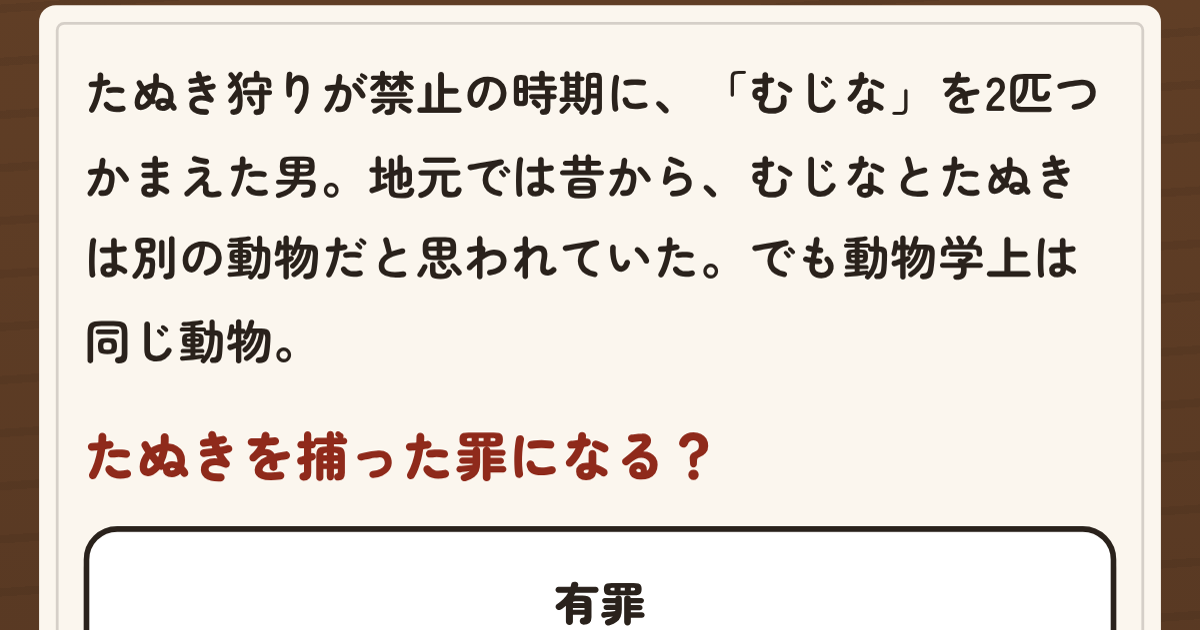
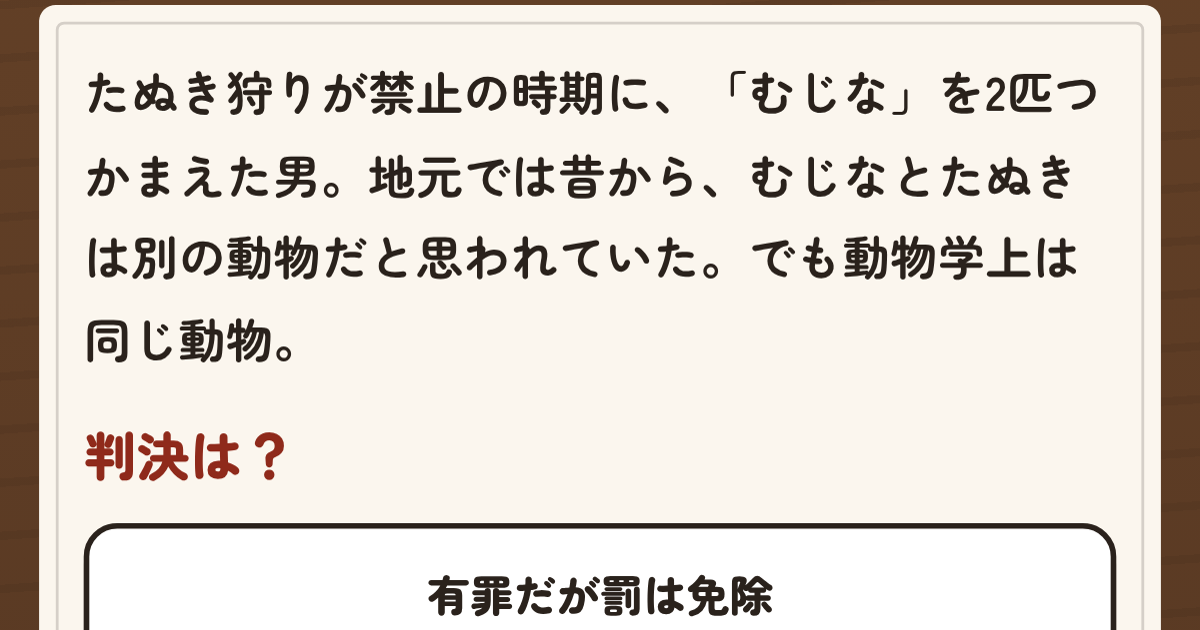
hanketsu: 3〜4択にして実際の刑（懲役・執行猶予・罰金・賠償額）も選べるように、4件追加
Claude-Session: https://claude.ai/code/session_01E5BBq8eCh2A179HDN9CSHu

diff --git a/hanketsu/index.html b/hanketsu/index.html
@@ -52,8 +52,9 @@ body{font-family:var(--body);color:var(--ink);overflow:hidden;-webkit-tap-highli
 #story{margin:0;font-size:clamp(14.5px,calc(2.3vh + 2.4px),17px);font-weight:700;line-height:1.75;text-align:left}
 #ask{margin:2px 0 0;font-size:clamp(16px,calc(2.3vh + 4px),19px);font-weight:900;line-height:1.45;text-align:left;color:var(--red-d)}
 #opts[hidden],#ask[hidden]{display:none}
-#opts{display:flex;flex-direction:column;gap:10px;margin-top:2px}
-.opt{border:2px solid var(--ink);border-radius:12px;background:#fff;color:var(--ink);font:900 16.5px var(--body);padding:clamp(10px,1.8vh,14px) 12px;text-align:center;cursor:pointer;box-shadow:0 3px 0 #cfc6ba;line-height:1.35}
+#opts{display:grid;grid-template-columns:1fr;gap:9px;margin-top:2px}
+#opts.two{grid-template-columns:1fr 1fr}
+.opt{border:2px solid var(--ink);border-radius:12px;background:#fff;color:var(--ink);font:900 15.5px var(--body);padding:clamp(9px,1.6vh,13px) 10px;text-align:center;cursor:pointer;box-shadow:0 3px 0 #cfc6ba;line-height:1.35}
 .opt:active{transform:translateY(2px);box-shadow:0 1px 0 #cfc6ba}
 .opt:disabled{cursor:default}
 .opt.chosen{background:#f1ece2}
@@ -153,88 +154,112 @@ const N_Q=10;
 const CASES=[
 {id:'denki',name:'電気窃盗事件',era:'明治36年',
  story:'電気会社と契約せず、電線からこっそり電気を引いて使った男。当時の法律で「窃盗」は、他人の「物」を盗む罪。',
- ask:'形のない電気は「物」？ 窃盗になる？',opts:['窃盗で有罪','物じゃないから無罪'],a:0,
+ ask:'形のない電気。判決は？',opts:['窃盗で有罪','「物」じゃないから無罪','窃盗ではなく詐欺で有罪'],a:0,
  verdict:'有罪（窃盗罪）',
  why:'電気は形がなくても、管理したり持ち運んだりできるので「物」にあたる、とされた。今は刑法に「電気は財物とみなす」と書いてある。',
  src:'大審院 明治36年5月21日 判決'},
 {id:'tanuki',name:'たぬき・むじな事件',era:'大正14年',
  story:'たぬき狩りが禁止の時期に、「むじな」を2匹つかまえた男。地元では昔から、むじなとたぬきは別の動物だと思われていた。でも動物学上は同じ動物。',
- ask:'たぬきを捕った罪になる？',opts:['有罪','無罪'],a:1,
+ ask:'判決は？',opts:['罰金で有罪','懲役で有罪','有罪だが罰は免除','無罪'],a:3,
  verdict:'無罪',
  why:'当時は、たぬきとむじなを別の動物と考える人が多かった。男に「たぬきを捕る」つもりはなかったので罪にならない、とされた。',
  src:'大審院 大正14年6月9日 判決'},
 {id:'musasabi',name:'むささび・もま事件',era:'大正13年',
  story:'禁猟の「むささび」をつかまえた男。男は、地元で「もま」と呼ぶ動物を捕っただけで、もまとむささびが同じ動物だとは知らなかった。',
- ask:'むささびを捕った罪になる？',opts:['有罪','無罪'],a:0,
+ ask:'判決は？',opts:['有罪','無罪（知らなかったから）','無罪（地方の呼び名だから）'],a:0,
  verdict:'有罪',
  why:'「もま」はむささびの地方での呼び名で、同じ動物。もまだと分かって捕ったなら、むささびを捕ったのと同じ。知らなかったでは済まない、とされた。',
  src:'大審院 大正13年4月25日 判決'},
 {id:'ichirin',name:'一厘事件',era:'明治43年',
  story:'育てた葉たばこは全部国に納める決まりだった時代。農家が、そのうち約2グラム（値段は1厘＝1円の1000分の1）を手でもんで自分で吸った。二審は罰金10円。',
- ask:'大審院の判決は？',opts:['有罪','無罪'],a:1,
+ ask:'大審院の判決は？',opts:['罰金10円（二審どおり）','罰金1厘（吸った分だけ）','懲役1か月','無罪'],a:3,
  verdict:'無罪',
  why:'ごくわずかで、特に悪い事情もない違反は、罰するほどの害がない、とされた。二審の罰金10円は、被害の1万倍だった。',
  src:'大審院 明治43年10月11日 判決'},
 {id:'unazuki',name:'宇奈月温泉事件',era:'昭和10年',
  story:'温泉に湯を引く管が、他人の小さな土地を許可なく通っていた。その土地を買った人が「管をどけろ。嫌ならこの土地と周りの土地を高値で買い取れ」と温泉側に迫った。',
- ask:'「管をどけろ」は通る？',opts:['通る','通らない'],a:1,
- verdict:'通らない',
+ ask:'判決は？',opts:['管をどけろ','温泉側が土地を買い取れ','訴えを退ける'],a:2,
+ verdict:'訴えを退ける',
  why:'管をどけるのはとても大変。それにつけこんで土地を買い、不当な値段で買い取りを迫るのは「権利の濫用」で許されない、とされた。',
  src:'大審院 昭和10年10月5日 判決'},
 {id:'shingen',name:'信玄公旗掛松事件',era:'大正8年',
  story:'武田信玄が旗を掛けたと伝わる松。線路から1.8mもない所に立っていて、蒸気機関車の煙で枯れてしまった。持ち主は鉄道側に賠償を求めた。',
- ask:'汽車を走らせるのは正当な権利。賠償は？',opts:['払わなくていい','払うべき'],a:1,
- verdict:'鉄道側は賠償すべき',
+ ask:'汽車を走らせるのは正当な権利。判決は？',opts:['賠償しなくていい','鉄道側が賠償する','賠償＋線路を移す'],a:1,
+ verdict:'鉄道側が賠償する',
  why:'汽車の煙は、ふつうは沿線の人が我慢するもの。でも線路のすぐそばで、煙を防ぐ方法もあったのに何もしなかったのは、我慢の限度を超える、とされた。',
  src:'大審院 大正8年3月3日 判決'},
 {id:'golf',name:'ロストボール事件',era:'昭和62年',
  story:'ゴルフ場の池の底に沈んでいるボール。客が打ち込んで、あきらめて置いていったもの。男たちは池にもぐって、それを拾って持ち去った。',
- ask:'置いていかれたボール。罪になる？',opts:['窃盗で有罪','捨てた物だから無罪'],a:0,
- verdict:'有罪（窃盗罪）',
+ ask:'何の罪になる？',opts:['窃盗罪','落とし物を自分のものにする罪（軽い）','捨てた物だから無罪'],a:0,
+ verdict:'窃盗罪',
  why:'ボールはゴルフ場のものになっていて、ゴルフ場が管理していた。ゴルフ場もいずれ回収して使うつもりだった、とされた。',
  src:'最高裁 昭和62年4月10日 決定'},
 {id:'pochette',name:'置き忘れポシェット事件',era:'平成16年',
  story:'公園のベンチにポシェットを置き忘れて、歩いていった人。まだ27mほどしか離れていないうちに、別の人がそのポシェットを持ち去った。',
- ask:'何の罪になる？',opts:['窃盗罪','落とし物を自分のものにする罪（もっと軽い）'],a:0,
+ ask:'何の罪になる？',opts:['窃盗罪','落とし物を自分のものにする罪（軽い）','拾っただけなので無罪'],a:0,
  verdict:'窃盗罪',
  why:'持ち主はまだ27mしか離れていない。置き忘れに気づいていなくても、ポシェットはまだ持ち主のものとして管理されていた、とされた。',
  src:'最高裁 平成16年8月25日 決定'},
 {id:'furikomi',name:'誤振込事件',era:'平成15年',
  story:'自分の口座に、知らない人から間違ってお金が振り込まれた。気づいたけれど黙って、銀行の窓口で引き出した。',
- ask:'自分の口座のお金。罪になる？',opts:['詐欺罪','罪にならない'],a:0,
- verdict:'有罪（詐欺罪）',
+ ask:'何の罪になる？',opts:['詐欺罪','横領罪','自分の口座だから無罪'],a:0,
+ verdict:'詐欺罪',
  why:'間違いの振込だと知ったら、銀行に伝える義務がある。黙って払い戻しを頼むのは、窓口の人をだますことになる、とされた。',
  src:'最高裁 平成15年3月12日 決定'},
 {id:'pachislo',name:'パチスロ体感器事件',era:'平成19年',
  story:'メダルを不正に取るための機械（体感器）を体につけて、パチスロを打った男。出たメダルは約1500枚。全部が機械のおかげで出たとは限らない。',
- ask:'窃盗になるのは？',opts:['機械で取れた分だけ','出たメダル全部'],a:1,
+ ask:'窃盗になるのは？',opts:['機械で取れた分だけ','出たメダル全部','どのメダルも窃盗ではない'],a:1,
  verdict:'出たメダル全部',
  why:'不正のための機械をつけて打つこと自体が、店の許さない遊び方。機械のおかげかどうかに関係なく、全部が窃盗、とされた。',
  src:'最高裁 平成19年4月13日 決定'},
 {id:'tattoo',name:'タトゥー事件',era:'令和2年',
- story:'医師免許のない彫り師が、店でお客さんにタトゥーを入れた。針で皮膚に色を入れるのは、医師しかしてはいけない「医業」なのか。一審は有罪。',
- ask:'最高裁の判断は？',opts:['医師法違反で有罪','無罪'],a:1,
+ story:'医師免許のない彫り師が、店でお客さんにタトゥーを入れた。針で皮膚に色を入れるのは、医師しかしてはいけない「医業」なのか。一審は罰金15万円。',
+ ask:'最高裁の判断は？',opts:['罰金15万円（一審どおり）','罰金50万円','懲役1年・執行猶予3年','無罪'],a:3,
  verdict:'無罪',
- why:'タトゥーは医療ではなく、美術的な面もある社会の風俗。医師だけができる「医行為」にはあたらない、とされた。',
+ why:'タトゥーは医療ではなく、美術的な面もある社会の風俗。医師だけができる「医行為」にはあたらない、とされた（二審で逆転無罪、最高裁で確定）。',
  src:'最高裁 令和2年9月16日 決定'},
 {id:'mining',name:'Webマイニング事件',era:'令和4年',
  story:'自分のWebサイトに、見に来た人のパソコンで仮想通貨の計算（マイニング）をさせるプログラムを、断りなく置いた。二審は「ウイルス罪」で罰金10万円。',
- ask:'最高裁の判断は？',opts:['有罪','無罪'],a:1,
+ ask:'最高裁の判断は？',opts:['罰金10万円（二審どおり）','罰金50万円','懲役1年・執行猶予3年','無罪'],a:3,
  verdict:'無罪',
  why:'断りなしではあるが、パソコンへの影響は広告と大きく変わらない。社会的に許されないとまでは言えない、とされた。',
  src:'最高裁 令和4年1月20日 判決'},
 {id:'p2p',name:'ファイル共有ソフト事件',era:'平成23年',
  story:'ファイル共有ソフトを作って、ネットで公開した開発者。それを使って他人の作品を違法に流す人が出て、開発者は「著作権侵害の手助け」で起訴された。一審は罰金150万円。',
- ask:'最高裁の判断は？',opts:['有罪','無罪'],a:1,
+ ask:'最高裁の判断は？',opts:['罰金150万円（一審どおり）','懲役1年・執行猶予3年','懲役3年（実刑）','無罪'],a:3,
  verdict:'無罪',
- why:'具体的な違法行為を知りながら配ったのではなく、違法に使わないよう警告もしていた。手助けするつもりがあったとは言えない、とされた。',
+ why:'具体的な違法行為を知りながら配ったのではなく、違法に使わないよう警告もしていた。手助けするつもりがあったとは言えない、とされた（二審で逆転無罪）。',
  src:'最高裁 平成23年12月19日 決定'},
 {id:'wifi',name:'Wi-Fiただ乗り事件',era:'平成29年',
  story:'隣の家のWi-Fiのパスワードを解読して、勝手にネットを使った男。電波法の「無線通信の秘密を盗んで使う罪」でも起訴された。',
- ask:'この罪は？',opts:['有罪','無罪'],a:1,
+ ask:'この罪の判決は？',opts:['有罪','罰金だけで有罪','無罪'],a:2,
  verdict:'無罪（この罪は）',
- why:'Wi-Fiのパスワードは、暗号を読むための鍵にすぎず「無線通信の秘密」にあたらない、とされた。※男は不正アクセスなど別の罪で有罪。',
- src:'東京地裁 平成29年4月27日 判決'}
+ why:'Wi-Fiのパスワードは、暗号を読むための鍵にすぎず「無線通信の秘密」にあたらない、とされた。※男は不正アクセスなど別の罪で懲役8年。',
+ src:'東京地裁 平成29年4月27日 判決'},
+{id:'kaizoku',name:'海賊版漫画サイト事件',era:'令和3年',
+ story:'人気漫画を無断でネットに上げて、誰でもタダで読めるサイトを運営した男。広告で稼いだ約6257万円を、海外の口座などに移して隠していた。',
+ ask:'判決は？',opts:['罰金1000万円','懲役3年・執行猶予5年','懲役3年＋罰金1000万円（実刑）','懲役10年'],a:2,
+ verdict:'懲役3年（実刑）・罰金1000万円',
+ why:'著作権法違反と、犯罪で得たお金を隠した罪で有罪。さらに広告収入など約6257万円の追徴（取り上げ）も命じられ、そのまま確定した。',
+ src:'福岡地裁 令和3年6月2日 判決'},
+{id:'fast',name:'ファスト映画事件',era:'令和3年',
+ story:'映画を無断で10分ほどに編集し、ナレーションをつけて動画サイトに上げた3人。広告収入を得ていた。全国で初めての裁判。',
+ ask:'主犯の判決は？',opts:['罰金200万円だけ','懲役2年・執行猶予4年＋罰金200万円','懲役2年（実刑）','無罪（紹介動画だから）'],a:1,
+ verdict:'懲役2年・執行猶予4年、罰金200万円',
+ why:'著作権法違反で有罪。ほかの2人も懲役1年6月（執行猶予つき）と罰金。このあと映画会社などからの民事裁判も起こされた。',
+ src:'仙台地裁 令和3年11月16日 判決'},
+{id:'fast5',name:'ファスト映画の賠償額',era:'令和4年',
+ story:'映画54本を無断で10分ほどにまとめた動画は、合わせて約1000万回再生された。映画会社など13社が、投稿した人に賠償を求めた。',
+ ask:'いくら払えと命じられた？',opts:['500万円','5000万円','5億円','50億円'],a:2,keep:true,
+ verdict:'5億円',
+ why:'1回の再生につき200円の損害と認められた。会社側の計算では損害は約20億円で、そのうち5億円を求め、全額が認められた。',
+ src:'東京地裁 令和4年11月17日 判決'},
+{id:'ikatako',name:'イカタコウイルス事件',era:'平成23年',
+ story:'動画のふりをしたファイルをネットで配り、開いたパソコンのファイルをイカやタコの絵に置き換えて、使えなくした男。当時はウイルスを作る罪がまだなかった。',
+ ask:'判決は？',opts:['罰する法律がないので無罪','罰金50万円','懲役1年・執行猶予3年','懲役2年6月（実刑）'],a:3,
+ verdict:'懲役2年6月（実刑）',
+ why:'パソコンのハードディスクを使えなくしたことが、物を壊す罪（器物損壊罪）にあたるとされた。執行猶予はつかなかった。',
+ src:'東京地裁 平成23年7月20日 判決'}
 ];
 
 /* ---------- audio ---------- */
@@ -274,8 +299,11 @@ function pick(){
   const a=CASES.slice();for(let i=a.length-1;i>0;i--){const j=Math.floor(Math.random()*(i+1));[a[i],a[j]]=[a[j],a[i]];}
   let q=a.slice(0,N_Q);
   /* the two animal cases look alike and end the other way round: when both come up, the musasabi follows the tanuki */
-  const ti=q.findIndex(c=>c.id==='tanuki'),mi=q.findIndex(c=>c.id==='musasabi');
-  if(ti>=0&&mi>=0){const m=q.splice(mi,1)[0];q.splice(q.findIndex(c=>c.id==='tanuki')+1,0,m);}
+  /* same for the two fast-movie cases (the criminal one, then the damages) */
+  for(const [f,g] of [['tanuki','musasabi'],['fast','fast5']]){
+    const fi=q.findIndex(c=>c.id===f),gi=q.findIndex(c=>c.id===g);
+    if(fi>=0&&gi>=0){const m=q.splice(gi,1)[0];q.splice(q.findIndex(c=>c.id===f)+1,0,m);}
+  }
   return q;
 }
 function begin(){
@@ -289,13 +317,16 @@ function show(){
   $('era').textContent=c.era+'の裁判';
   $('story').textContent=c.story;$('ask').textContent=c.ask;$('ask').hidden=false;
   const o=$('opts');o.innerHTML='';o.hidden=false;
-  c.opts.forEach((t,k)=>{const b=document.createElement('button');b.type='button';b.className='opt';b.textContent=t;b.addEventListener('click',()=>answer(k));o.appendChild(b);});
+  o.className=c.opts.length%2===0&&c.opts.every(t=>t.length<=6)?'two':'';
+  /* the choices come in a new order every time (amounts stay in order) */
+  const ord=c.opts.map((_,k)=>k);if(!c.keep)for(let i=ord.length-1;i>0;i--){const j=Math.floor(Math.random()*(i+1));[ord[i],ord[j]]=[ord[j],ord[i]];}
+  ord.forEach(k=>{const b=document.createElement('button');b.type='button';b.className='opt';b.dataset.k=k;b.textContent=c.opts[k];b.addEventListener('click',()=>answer(k));o.appendChild(b);});
   $('verdict').hidden=true;$('mark').className='';$('mark').innerHTML='';
 }
 async function answer(k,fast){
   if(!G||G.busy)return;G.busy=true;
   const c=G.qs[G.i],ok=k===c.a;G.res.push({id:c.id,name:c.name,ok,chose:k});
-  const bs=[...document.querySelectorAll('.opt')];bs.forEach(b=>b.disabled=true);bs[k]&&bs[k].classList.add('chosen');
+  const bs=[...document.querySelectorAll('.opt')];bs.forEach(b=>b.disabled=true);const cb=bs.find(b=>+b.dataset.k===k);cb&&cb.classList.add('chosen');
   if(!fast){ac();knock();knock(.16);await wait(520);}
   /* the judgment replaces the question */
   $('ask').hidden=true;$('opts').hidden=true;
@@ -426,8 +457,9 @@ async function drawCard(){
 
 /* for checks and the promo video: play(n) answers n of the ten right and goes to the result */
 window.__hanketsu={get G(){return G;},CASES,begin,answer,nextQ,shareText,titleOf,
+  showCase(id){begin();G.qs[0]=CASES.find(c=>c.id===id);G.i=0;show();},
   play(n){begin();const right=new Set();while(right.size<n)right.add(Math.floor(Math.random()*N_Q));
-    for(let i=0;i<N_Q;i++){const c=G.qs[G.i];answer(right.has(i)?c.a:1-c.a,true);nextQ();}}};
+    for(let i=0;i<N_Q;i++){const c=G.qs[G.i];answer(right.has(i)?c.a:(c.a+1)%c.opts.length,true);nextQ();}}};
 </script>
 </body>
 </html>
